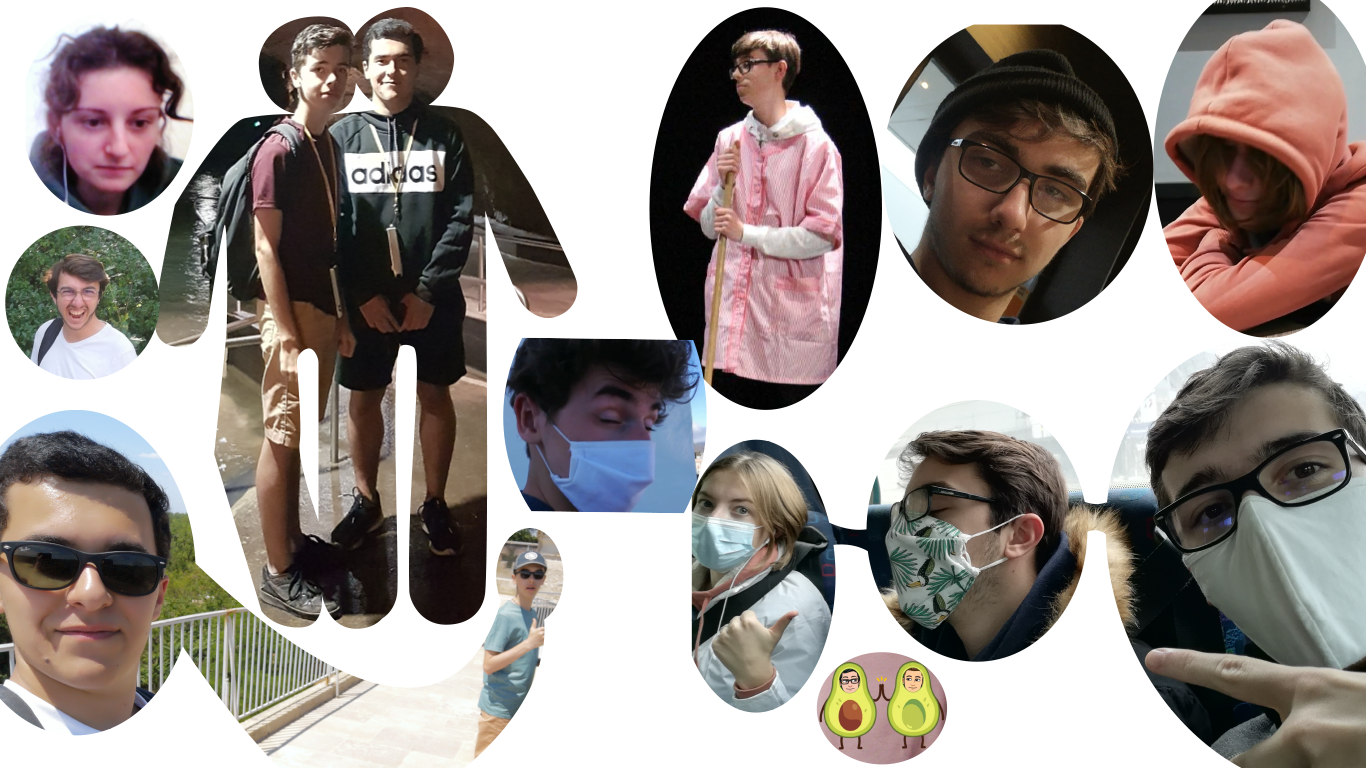
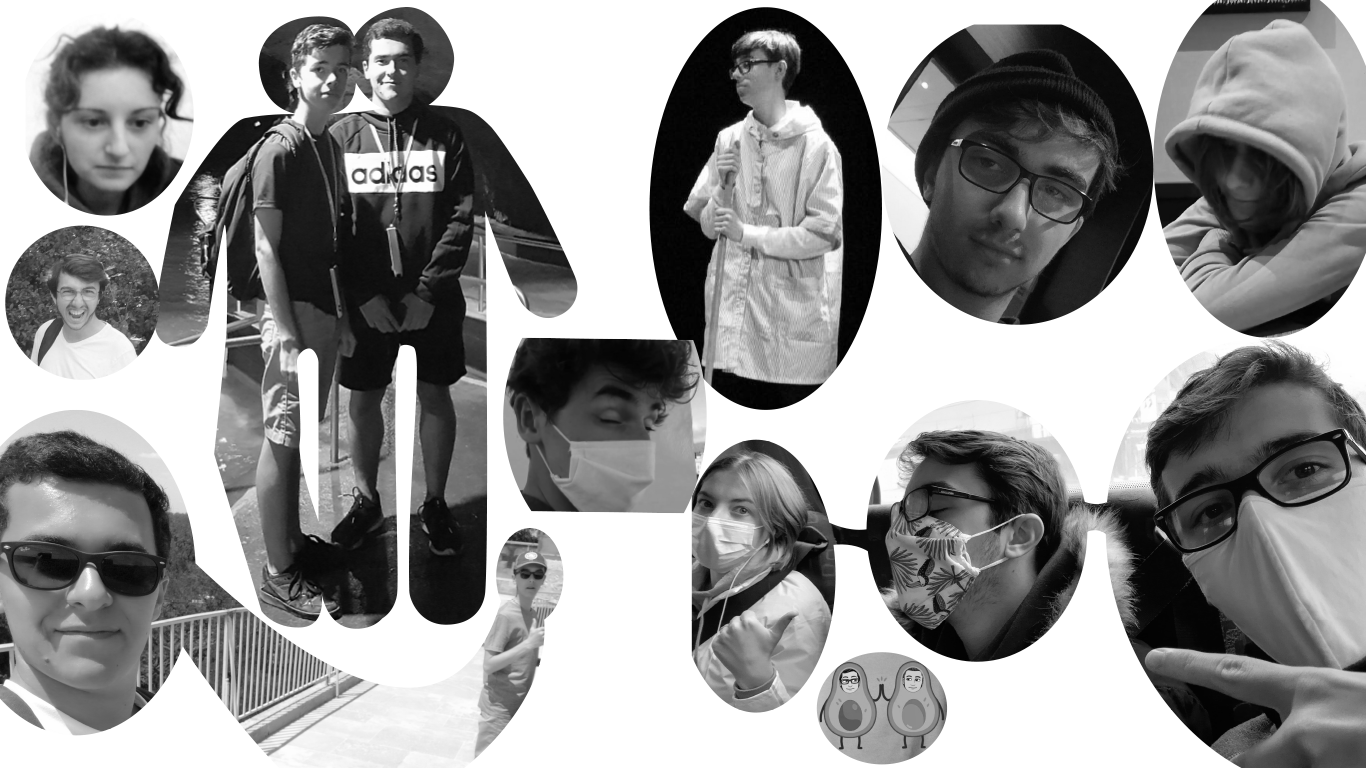
:lipstick: Add style

diff --git a/index.html b/index.html
@@ -9,12 +9,14 @@
     <link rel="preconnect" href="https://fonts.gstatic.com" crossorigin>
     <link href="https://fonts.googleapis.com/css2?family=Darker+Grotesque:wght@500&family=Khand:wght@700&display=swap" rel="stylesheet">
     <link href="https://fonts.googleapis.com/css2?family=Darker+Grotesque:wght@500&display=swap" rel="stylesheet">
+    <link href="https://fonts.googleapis.com/css2?family=Space+Mono:wght@400;700&display=swap" rel="stylesheet">
+    <link href="https://fonts.googleapis.com/css2?family=Saira+Condensed:wght@200&display=swap" rel="stylesheet">
     <title>Pierre CAILLET Portfolio</title>
 </head>
 <body class="home_body">
     <header class="header" id="header">
         <a class="header_link header_skills" href="skills.html">SKILLS</a>
-        <a class="header_link header_name" href="index.html"><h1>CAILLET Pierre</h1></a>
+        <a class=" header_now header_link header_name" href="index.html"><h1>CAILLET Pierre</h1></a>
         <a class="header_link header_work" href="work.html">WORK</a>
     </header>
     <section class="container" id="container">
@@ -28,21 +30,28 @@
             <img class="go_down" src="imgs/dropdown.png" alt="button to go down" onclick="tp_lower()">
         </div>
             <div class="items item1" id="item1">
-            <img src="imgs/friends.png" class=" imgs img_intro"></img>
+            <div class="grid">
+                <img src="imgs/friends.png" class=" imgs img_intro"></img>
+                <div class="div_filter"></div>
+            </div>
             <p class=" texts text_intro">Let me introduce myself, my name is Pierre, my friends call me Pierro.
                 I love to be with them whether it's to go to the movies, have a drink, play sports or just to see them.</p>
         </div>
         <div class="items item2">
-            <img src="imgs/tir.png" class=" imgs img_passions"></img>
+            <div class="grid">
+                <img src="imgs/tir.png" class=" imgs img_passions"></img>
+                <div class="div_filter"></div>
+            </div>
             <p class=" texts text_passions">I have been passionate about sports and e-sport for 12 and 7 years respectively.
                 I practice sports shooting and participated once in the French championships during the 2019/2020 season.
                 I've been playing on my pc for 7 years, I've been playing RocketLeague for 5 years, which in my opinion is the best game.</p>
         </div>
         <div class="items item3">
-            <img class=" imgs img_traveling"src="imgs/tenerife.jpg" alt="Photo of my Holidays at Tenerife">
-            <p class=" texts text_traveling">
-                I recently experienced traveling around the world. It was an incredibly enriching experience from meetings new people, I discoverd new horizons.
-                Thanks to all our little problems, we are more united than ever.</p>
+            <div class="grid">
+                <img class=" imgs img_traveling"src="imgs/tenerife.jpg" alt="Photo of my Holidays at Tenerife">
+                <div class="div_filter"></div>
+            </div>
+            <p class=" texts text_traveling">I recently experienced traveling around the world. It was an incredibly enriching experience from meetings new people, I discoverd new horizons. Thanks to all our little problems, we are more united than ever.</p>
         </div>
         <div class="div_go_up">
             <img class="go_up" src="imgs/dropdown.png" alt="button to go up" onclick="tp_top()">

diff --git a/style.css b/style.css
@@ -11,11 +11,24 @@
   padding: 5% 10%;
   width: 80%;
 }
-.container .imgs {
+.container .grid {
+  display: grid;
+  grid-template-rows: 1fr;
+  grid-template-columns: 1fr;
   height: 768px;
   width: 1366px;
+  background-size: cover;
+}
+.container .grid .imgs {
   background-color: white;
   box-shadow: 0 4px 8px rgba(17, 15, 14, 0.1);
+  grid-column: 1/-1;
+  grid-row: 1/-1;
+}
+.container .grid .div_filter {
+  background-color: rgba(237, 180, 202, 0.6);
+  grid-column: 1/-1;
+  grid-row: 1/-1;
 }
 .container .texts {
   font-family: "Khand", sans-serif;
@@ -25,8 +38,9 @@
   width: 30%;
   position: absolute;
   right: 0;
-  bottom: 50px;
+  bottom: 75px;
   text-align: right;
+  background-color: rgba(255, 255, 255, 0.5);
 }
 .container .welcome {
   font-size: 180px;
@@ -86,9 +100,6 @@
   text-align: left;
   left: 0;
 }
-.container .texts {
-  background-color: rgba(255, 255, 255, 0.5);
-}
 .container .div_go_up {
   display: flex;
   flex-direction: column-reverse;
@@ -114,8 +125,9 @@
   margin: 100px 0px;
 }
 .skills_container .div_logos .logos {
-  height: 150px;
-  margin: 15px;
+  height: 300px;
+  margin: 30px;
+  border-radius: 25px;
 }
 
 .home_work {
@@ -137,7 +149,7 @@
   flex-direction: column;
   background-color: transparent;
   width: 100%;
-  height: 300px;
+  height: 400px;
 }
 .footer .icons {
   width: 40%;
@@ -145,12 +157,12 @@
   display: flex;
 }
 .footer .icons .icon-github, .footer .icons .icon-insta {
-  width: 64px;
-  height: 64px;
+  width: 128px;
+  height: 128px;
   padding: 24px;
 }
 .footer .footer_text {
-  font-size: 24px;
+  font-size: 48px;
   font-family: "Khand", sans-serif;
   color: #110F0E;
   padding: 24px;

diff --git a/layout/body.scss b/layout/body.scss
@@ -9,12 +9,28 @@
     padding: 5% 10%;
     width: 80%;
 
-    .imgs{
+    .grid{ 
+        display: grid;
+        grid-template-rows: 1fr;
+        grid-template-columns: 1fr;       
         height: 768px;
         width: 1366px;
-        background-color: $white;
-        box-shadow: 0 4px 8px rgba($almost-black, 0.1);
+        background-size: cover;
+
+        .imgs{
+            background-color: $white;
+            box-shadow: 0 4px 8px rgba($almost-black, 0.1);
+            grid-column: 1/-1;
+            grid-row: 1/-1;
+        }
+        .div_filter{
+            background-color: rgba($color-home, 0.6);
+            grid-column: 1/-1;
+            grid-row: 1/-1;
+        }
     }
+
+    
     .texts{
         font-family: 'Khand', sans-serif;
         color: $almost-black;
@@ -23,8 +39,9 @@
         width: 30%;
         position: absolute;
         right: 0;
-        bottom: 50px;
+        bottom: 75px;
         text-align: right;
+        background-color: rgba(255,255,255, 0.5);
     }
     .welcome{
         font-size: 180px;
@@ -88,10 +105,7 @@
         text-align: left;
         left: 0;
     }
-    .texts{
-        background-color: rgba(255,255,255, 0.5);
-    }
-
+    
     .div_go_up{
         display: flex;
         flex-direction: column-reverse;
@@ -120,8 +134,9 @@
         margin: 100px 0px ;
 
         .logos{
-            height: 150px;
-            margin: 15px;
+            height: 300px;
+            margin: 30px;
+            border-radius: 25px;
         }
     }
 }

diff --git a/skills.html b/skills.html
@@ -9,6 +9,8 @@
         <link rel="preconnect" href="https://fonts.gstatic.com" crossorigin>
         <link href="https://fonts.googleapis.com/css2?family=Darker+Grotesque:wght@500&family=Khand:wght@700&display=swap" rel="stylesheet">
         <link href="https://fonts.googleapis.com/css2?family=Darker+Grotesque:wght@500&display=swap" rel="stylesheet">
+        <link href="https://fonts.googleapis.com/css2?family=Space+Mono:wght@400;700&display=swap" rel="stylesheet">
+        <link href="https://fonts.googleapis.com/css2?family=Saira+Condensed:wght@200&display=swap" rel="stylesheet">
         <title>Pierre CAILLET Skills</title>
     </head>
 <body class="skills_body">
@@ -23,7 +25,7 @@
             <img class="logos" src="imgs/logos/html.png" alt="Logo of HTML 5">
             <img class="logos" src="imgs/logos/css.png" alt="Logo of CSS 3">
             <img class="logos" src="imgs/logos/sass.png" alt="Logo of SASS">
-            <img class="logos" src="imgs/logos/js.png" alt="Logo of JavaScript">
+            <img class="logos logo_js" src="imgs/logos/js.png" alt="Logo of JavaScript">
             <img class="logos" src="imgs/logos/python.png" alt="Logo of Python">
             <img class="logos" src="imgs/logos/php.png" alt="Logo of PHP">
             <img class="logos" src="imgs/logos/figma.png" alt="Logo of Figmat">

diff --git a/work.html b/work.html
@@ -9,6 +9,8 @@
     <link rel="preconnect" href="https://fonts.gstatic.com" crossorigin>
     <link href="https://fonts.googleapis.com/css2?family=Darker+Grotesque:wght@500&family=Khand:wght@700&display=swap" rel="stylesheet">
     <link href="https://fonts.googleapis.com/css2?family=Darker+Grotesque:wght@500&display=swap" rel="stylesheet">
+    <link href="https://fonts.googleapis.com/css2?family=Space+Mono:wght@400;700&display=swap" rel="stylesheet">
+    <link href="https://fonts.googleapis.com/css2?family=Saira+Condensed:wght@200&display=swap" rel="stylesheet">
     <title>Pierre CAILLET Work</title>
 </head>
 <body class="home_work">

diff --git a/layout/_footer.scss b/layout/_footer.scss
@@ -12,7 +12,7 @@
     flex-direction: column;
     background-color: transparent;
     width: 100%;
-    height: 300px;
+    height: 400px;
 
     .icons{
         width: 40%;
@@ -20,13 +20,13 @@
         display: flex;
 
         .icon-github, .icon-insta { 
-            width: 64px;
-            height: 64px;
+            width: 128px;
+            height: 128px;
             padding: 24px;
         }
     }
     .footer_text{
-        font-size: 24px;
+        font-size: 48px;
         font-family: 'Khand', sans-serif;
         color: $almost-black;
         padding: 24px;
